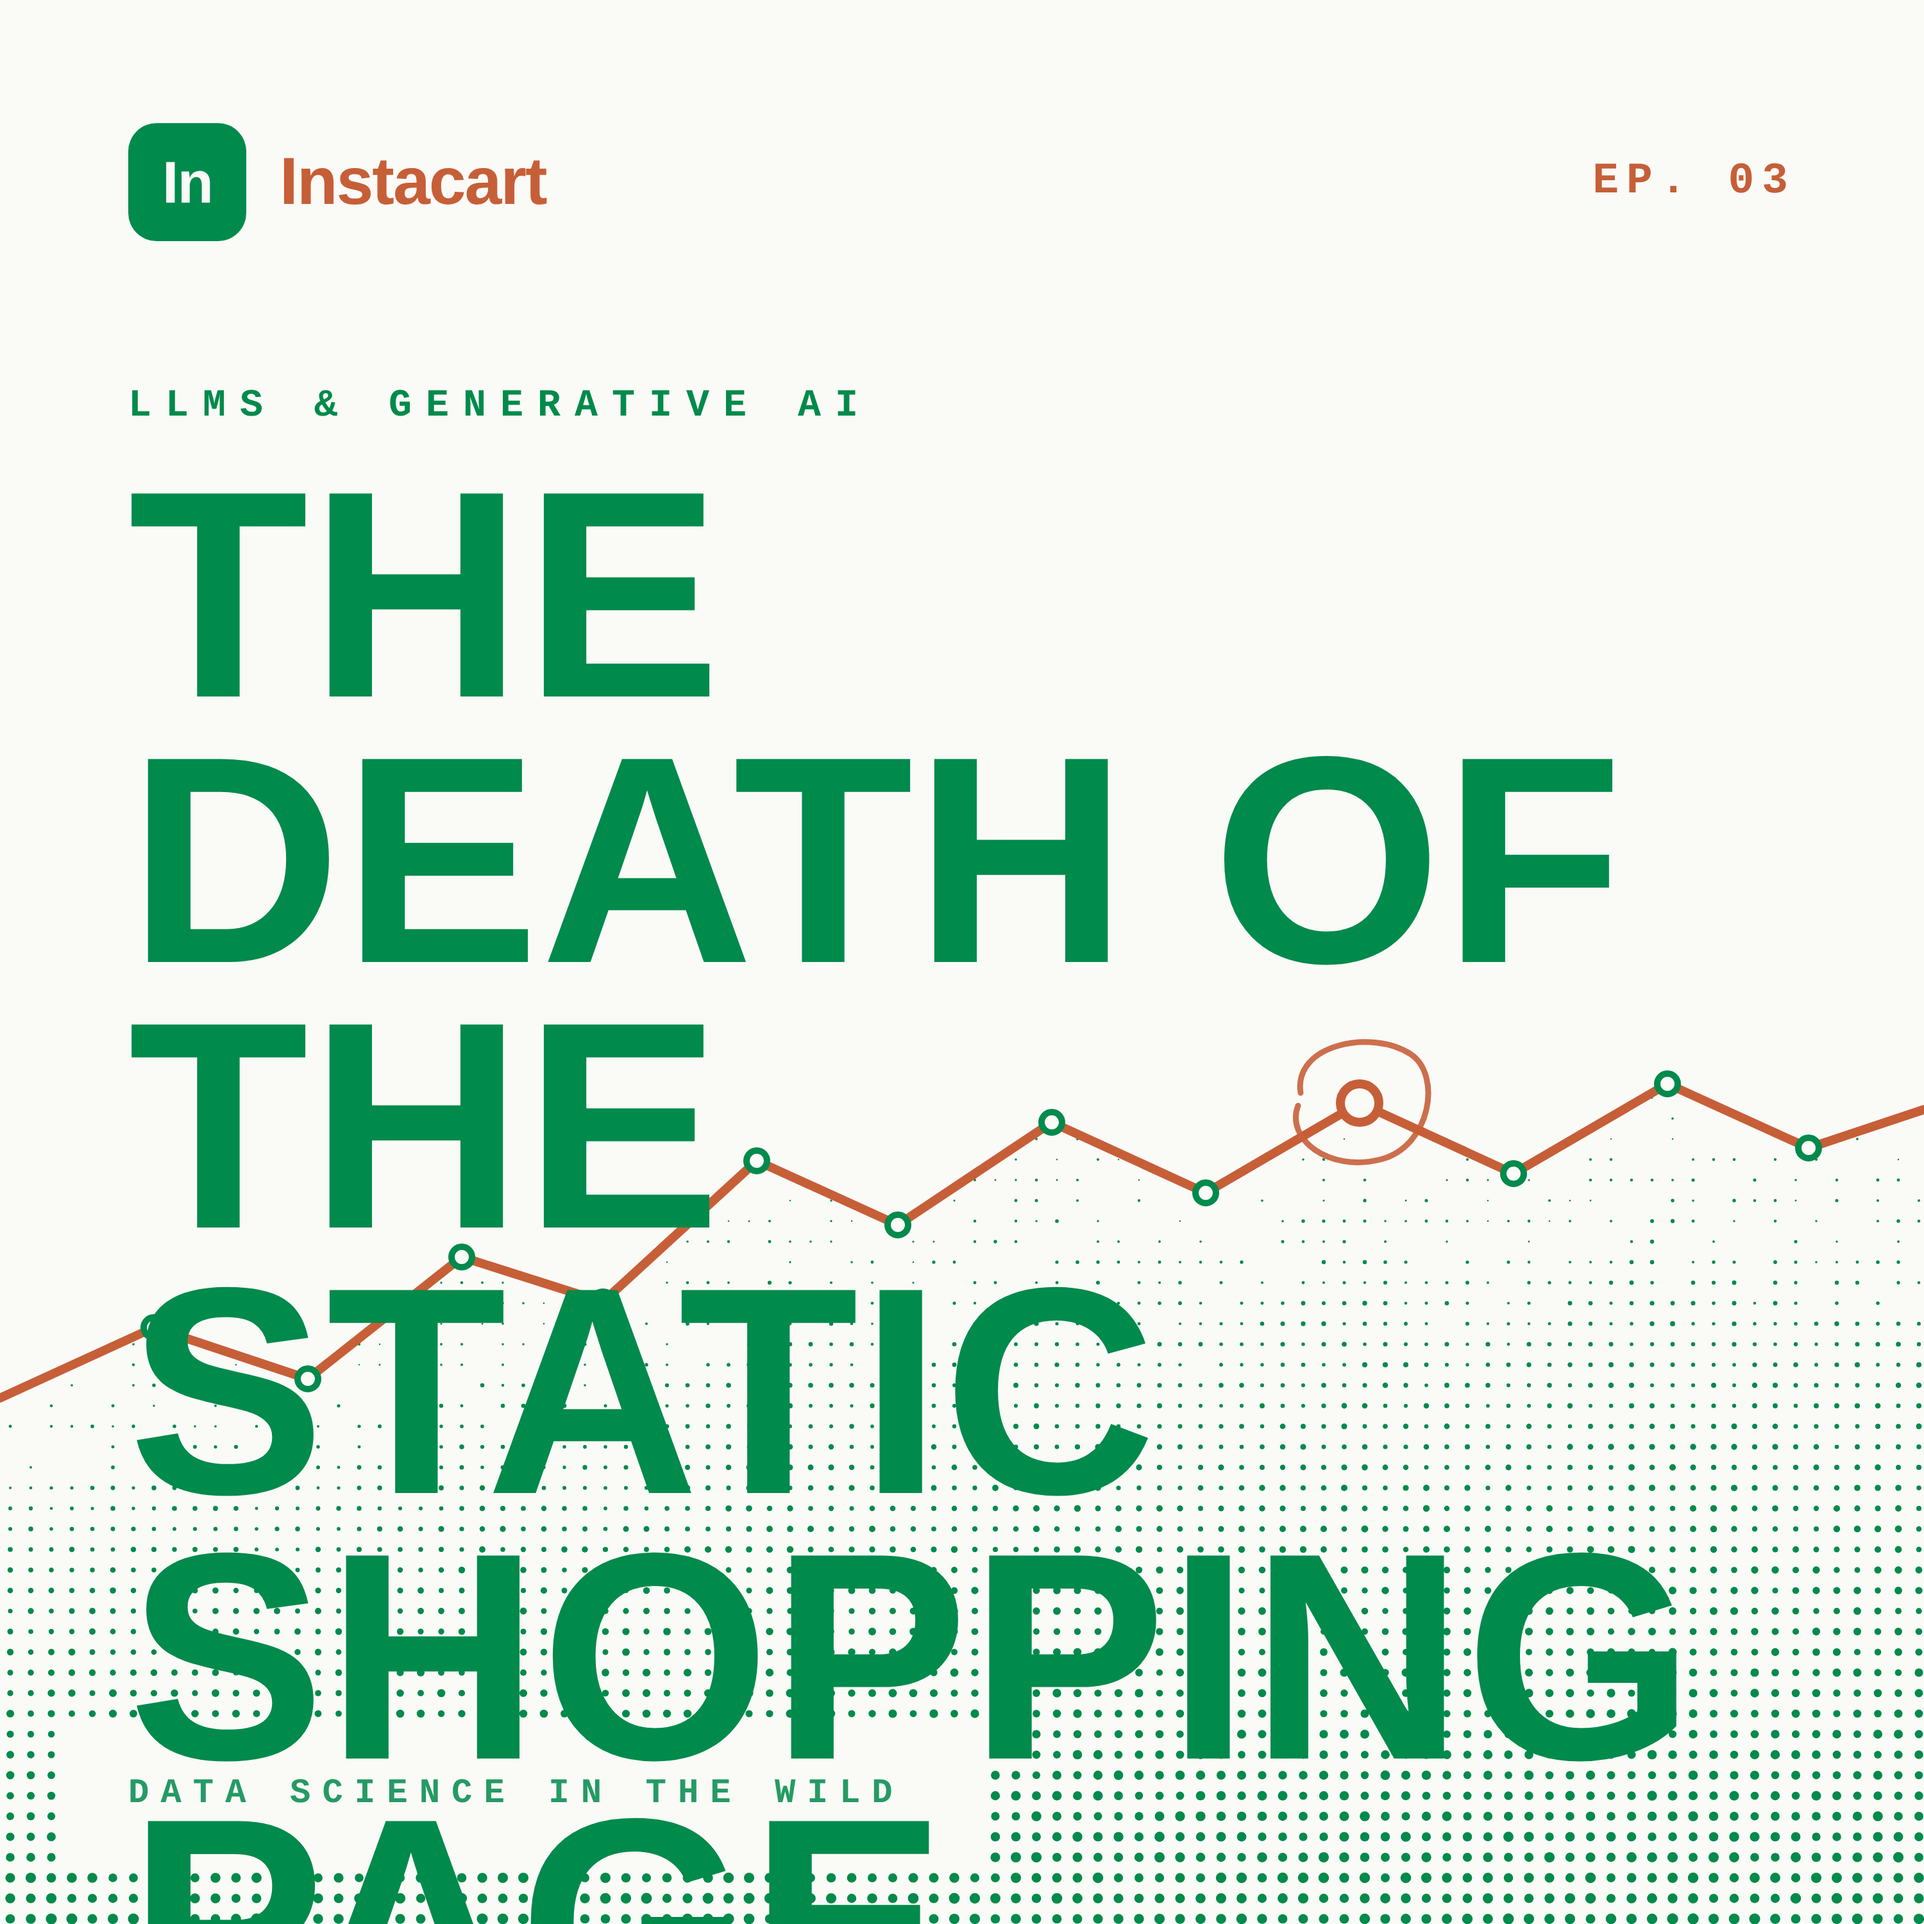
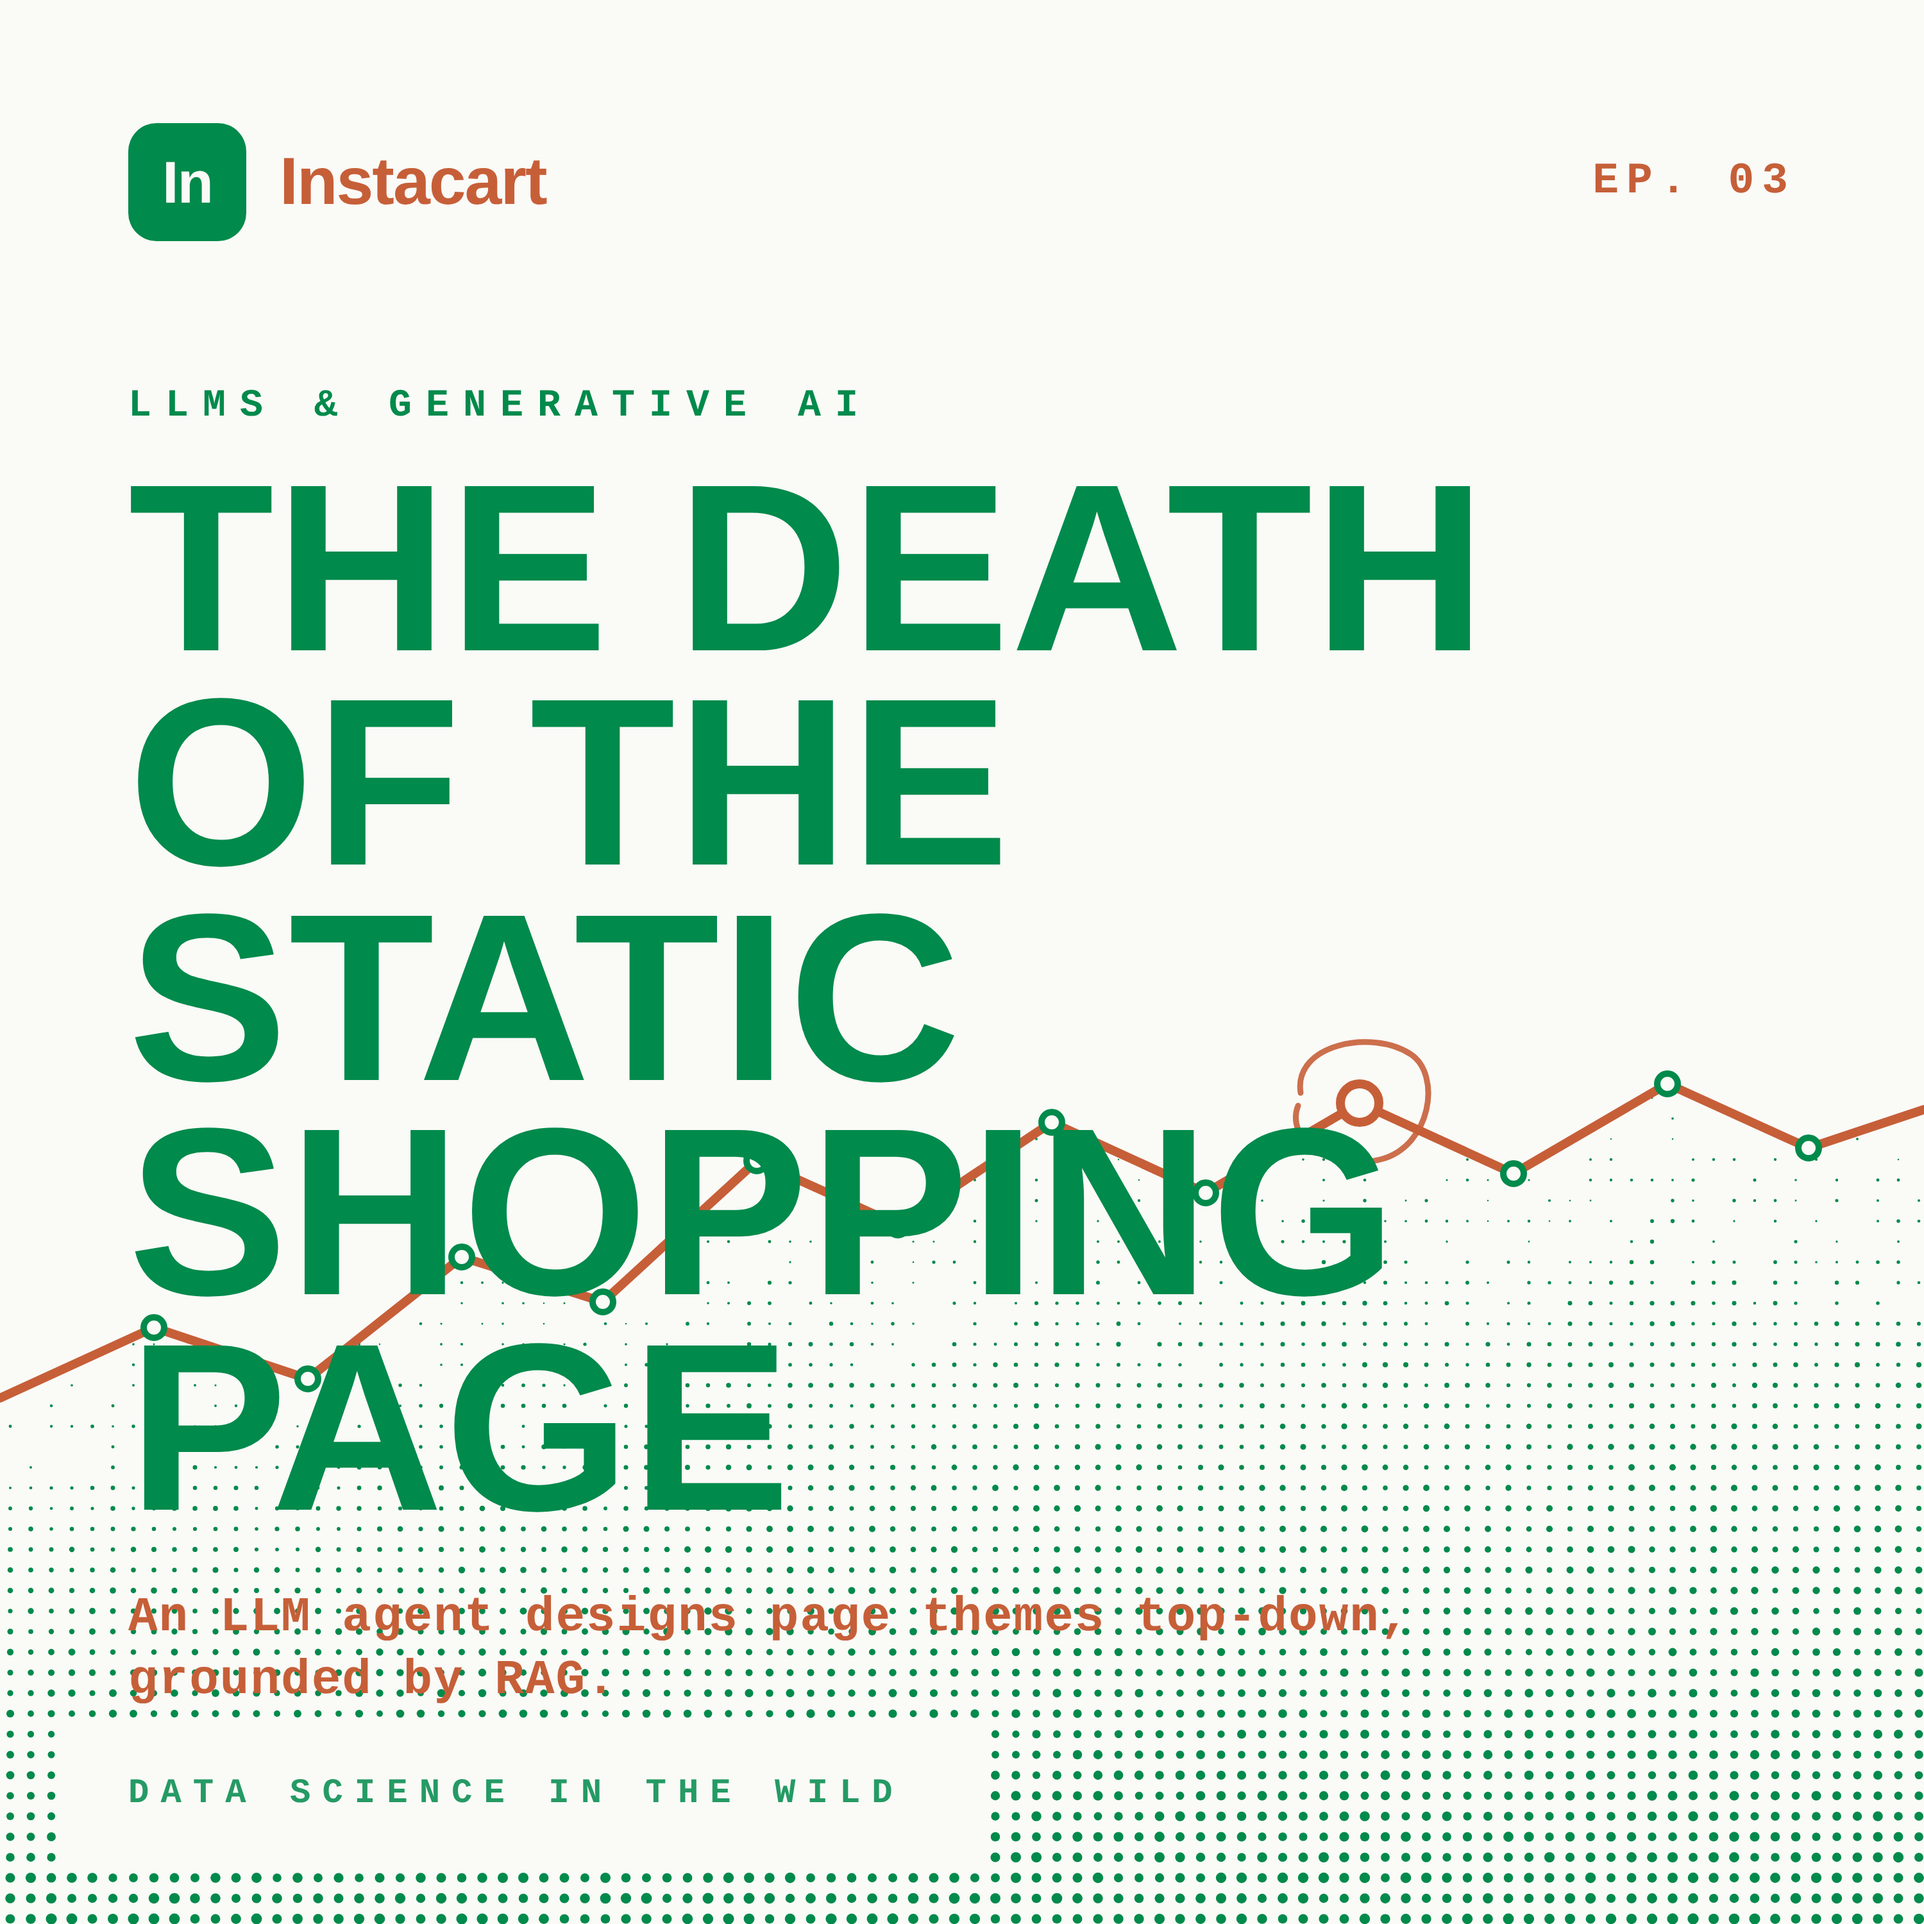
fix: shrink-to-fit podcast cover titles to prevent off-canvas text
The h1 title was a fixed 230px with no overflow handling, so it silently
clipped past the card edge for long titles: a single long word overflowed
horizontally (WeatherNext 3 -> "WEATHERNEXT" ran off the right edge) and a
long multi-word title overflowed vertically (Instacart's 4-line title ran
past the footer off the bottom, cutting off "PAGE"). Both went unnoticed
because the generation script was never followed by actually viewing the
rendered PNG.

Now shrinks font-size to fit both width and height against the card bounds
before rendering, falling back to mid-word breaking only if it still can't
fit at a hard floor size. Regenerated the two known-affected covers.

Claude-Session: https://claude.ai/code/session_01Rrwvd3AXqpapNPiaB6W6EY

Changed region(s): [[0.062, 0.248, 0.868, 1.0], [0.62, 0.372, 0.837, 0.527]]

diff --git a/automation/podcast_cover.js b/automation/podcast_cover.js
@@ -177,6 +177,32 @@ const html = `<!doctype html><html><head><meta charset="utf-8"><style>
   const page = await browser.newPage({ viewport:{width:S,height:S}, deviceScaleFactor:2 });
   await page.goto('file://' + tmp);
   await page.waitForTimeout(120);
+  // Shrink-to-fit: the title is a fixed 230px by default, which overflows the
+  // card both horizontally (a single long word, e.g. "WEATHERNEXT", wider than
+  // the box) and vertically (a long multi-word title wrapping to 4-5 lines runs
+  // past the footer and off the bottom of the canvas). Shrink font-size until
+  // both dimensions fit; if it still doesn't fit at the floor size, allow
+  // mid-word breaking as a last-resort safety net instead of letting
+  // overflow:hidden silently clip the text off-canvas.
+  await page.evaluate(() => {
+    const h1 = document.querySelector('h1');
+    const type = document.getElementById('type');
+    const foot = document.getElementById('foot');
+    const maxHeight = foot.getBoundingClientRect().top - type.getBoundingClientRect().top - 40;
+    const floorSize = 40;
+    const designMinSize = 90;
+    let size = parseFloat(getComputedStyle(h1).fontSize);
+    const overflows = () => h1.scrollWidth > h1.clientWidth || type.scrollHeight > maxHeight;
+    // Shrink down to the design floor first; if that's not enough (very long
+    // titles), keep shrinking past it down to an absolute floor rather than
+    // let anything run off-canvas.
+    while (overflows() && size > designMinSize) { size -= 4; h1.style.fontSize = size + 'px'; }
+    while (overflows() && size > floorSize) { size -= 4; h1.style.fontSize = size + 'px'; }
+    if (h1.scrollWidth > h1.clientWidth) {
+      h1.style.overflowWrap = 'anywhere';
+      h1.style.wordBreak = 'break-word';
+    }
+  });
   fs.mkdirSync(path.dirname(path.resolve(out)), { recursive: true });
   await page.screenshot({ path: out, clip:{x:0,y:0,width:S,height:S} });
   await browser.close();
